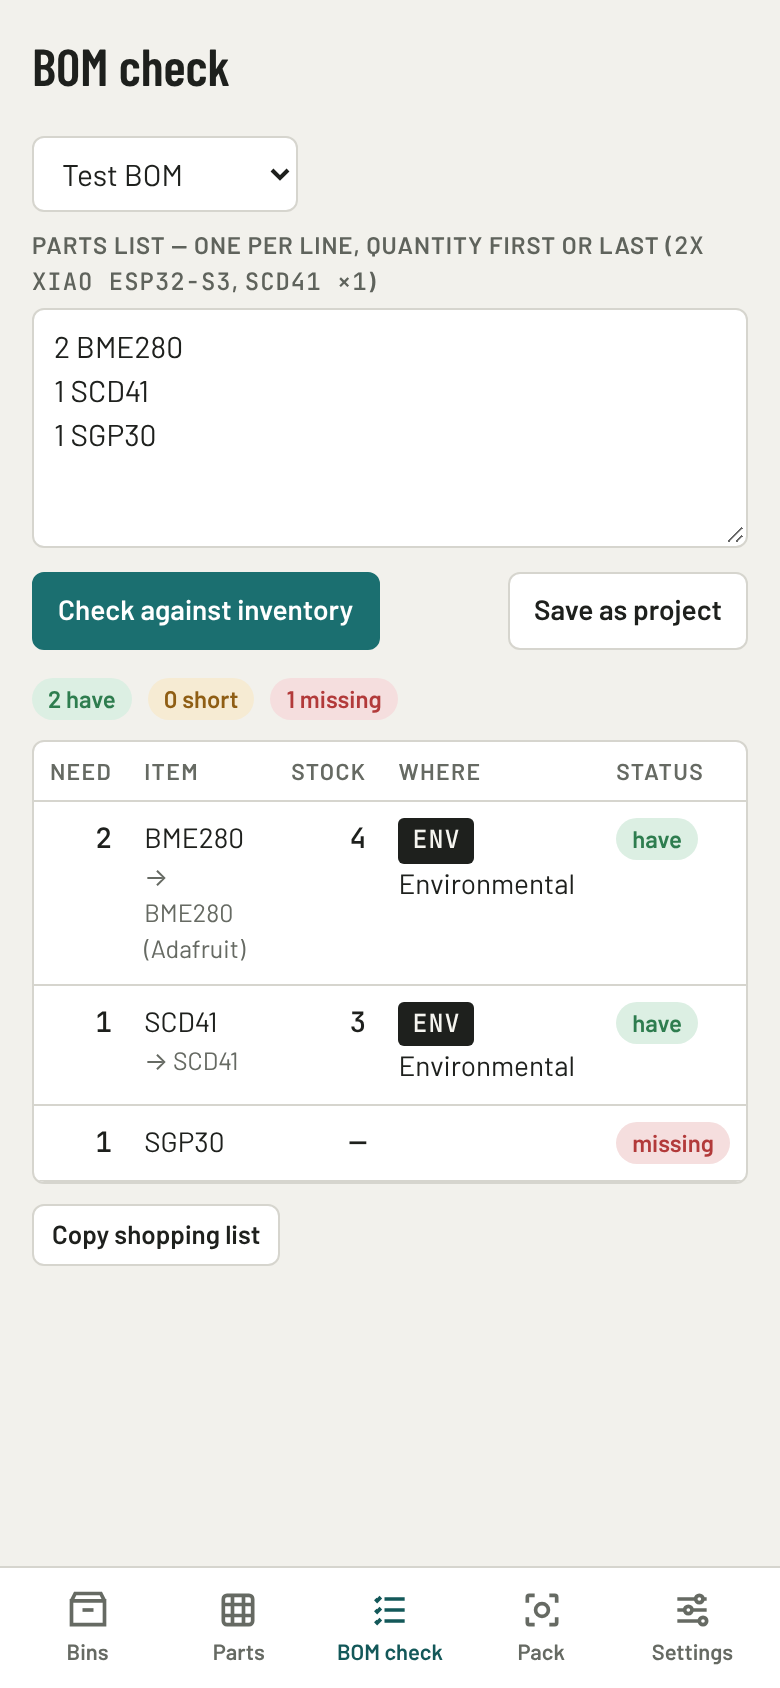
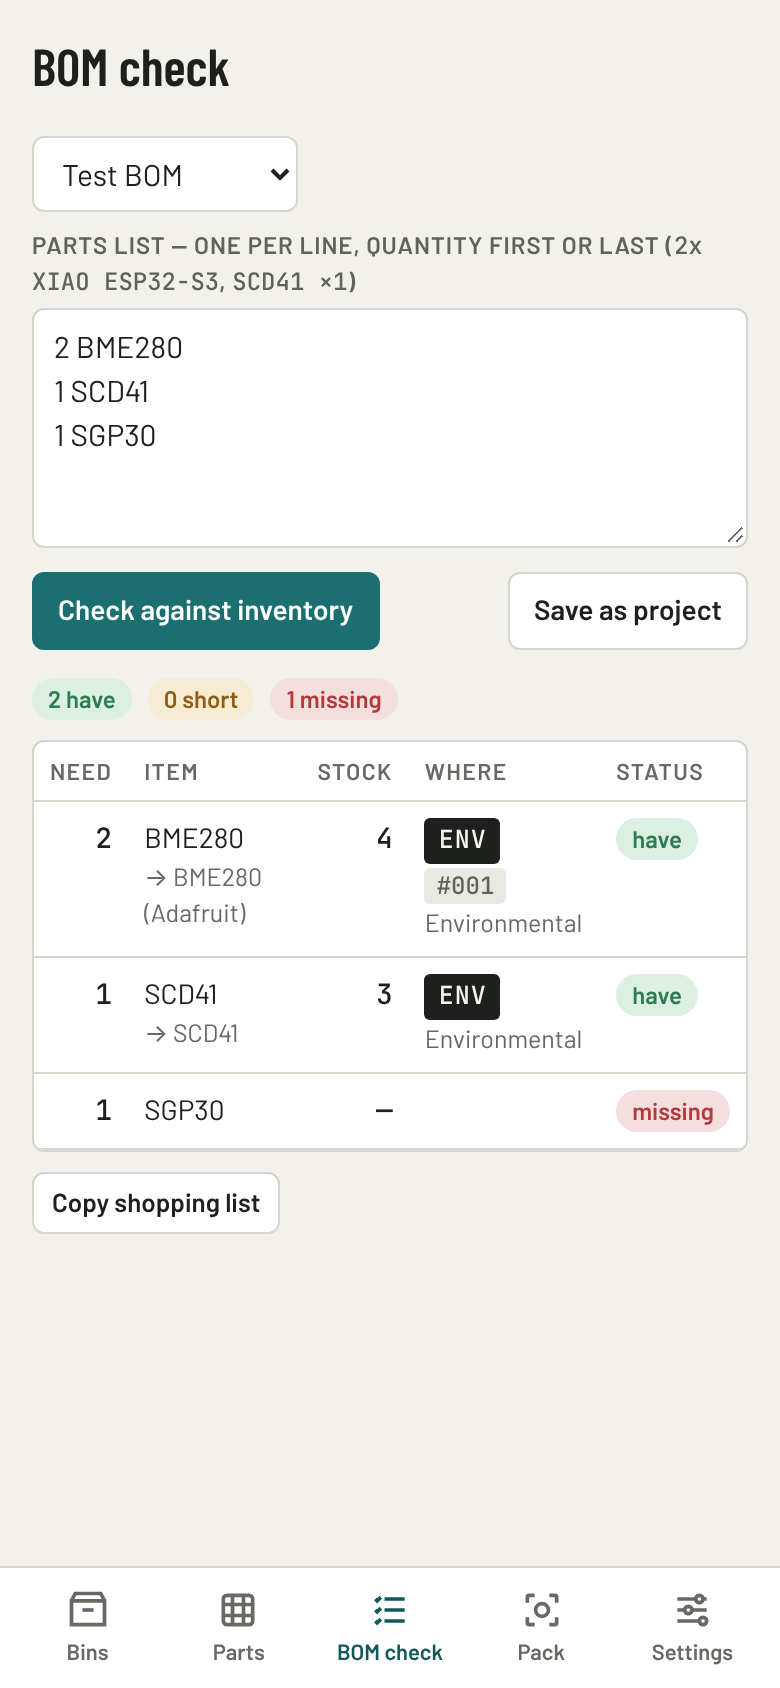
BOM check says which bag each part is in, and its examples read as typed
Where gave a part's bin label and name but not its bag number, which is how a part is found in a bin of bags, though
the README says BOM check tells where each part lives. It now shows the bin's label, the bag (#001) and the bin's name
under them. The examples in the label above the list were uppercased with it, so "2x XIAO ESP32-S3" read "2X"; they
keep their own case now. The README's phone shots and og.png are made again with this, and with no message on them.

Claude-Session: https://claude.ai/code/session_01PQbLNV3sphK8ujnLfUr9aR

diff --git a/js/app.js b/js/app.js
@@ -391,7 +391,7 @@ function renderBom(m){
     const trs=items.map(r=>{
       let st, cls, where='', note='';
       if(!r.m){ st='missing'; cls='bad'; missing++; }
-      else { const b=binOf(r.m.p), n=need.get(r.m.p.id); where=b?`<span class="label">${esc(b.code)}</span> ${esc(b.name||'')}`:'<span class="tiny">no bin</span>';
+      else { const b=binOf(r.m.p), n=need.get(r.m.p.id); where=(b?`<span class="label ${isBox(b)?'box':''}">${esc(b.code)}</span>`:'<span class="tiny">no bin</span>')+(r.m.p.bag?` <span class="bagno">${bagStr(r.m.p.bag)}</span>`:'')+(b?.name?`<div class="tiny">${esc(b.name)}</div>`:''); // the bin, then the bag in it
         if(!lacks(r)){ st='have'; cls='ok'; have++; } else { st=`short ${shortBy(n.qty,stock(r))}`; cls='warn'; short++; if(n.lines>1) note=`<div class="tiny">${n.qty} needed across ${n.lines} lines</div>`; } }
       return `<tr><td class="n">${r.qty}</td><td>${esc(r.name)}${r.m?`<div class="tiny">→ ${esc(r.m.p.name)}${r.m.conf<0.8?' <span class="chip">fuzzy</span>':''}</div>`:''}${note}</td><td class="n">${r.m?esc(fmtQty(r.m.p)):'—'}</td><td>${where}</td><td><span class="chip ${cls}">${st}</span></td></tr>`;
     }).join('');

diff --git a/sw.js b/sw.js
@@ -8,7 +8,7 @@
 // fingerprint of every file in SHELL: change any of them and test/e2e.mjs fails until FILES is changed to match (it
 // says what to), which changes this file, so every copy is made whole again at once.
 const CACHE = 'parts-bin-v6'; // bump the number when the file list changes
-const FILES = '851d37bf'; // test/e2e.mjs checks this
+const FILES = 'cb99213e'; // test/e2e.mjs checks this
 const SHELL = [
   './', 'index.html', 'carry.js', 'icon.svg', 'icon-180.png', 'manifest.webmanifest',
   'css/app.css', 'js/app.js', 'js/store.js', 'js/model.js', 'js/sync.js', 'js/ai.js', 'js/inbox.js', 'js/bom.js', 'js/bags.js',

diff --git a/css/app.css b/css/app.css
@@ -91,6 +91,7 @@ a{color:var(--accent-ink)}
 .grow{flex:1 1 auto}
 .field{display:flex;flex-direction:column;gap:4px;margin-bottom:12px}
 .field label{font-size:12px;font-weight:600;letter-spacing:.04em;text-transform:uppercase;color:var(--ink2)}
+.field label code{text-transform:none;letter-spacing:0} /* an example as it's typed: 2x, not 2X */
 .grid2{display:grid;grid-template-columns:1fr 1fr;gap:0 12px}
 @media(max-width:480px){.grid2{grid-template-columns:1fr}}
 .empty{border:1px dashed var(--line);border-radius:var(--r);padding:28px 20px;text-align:center;color:var(--ink2)}
